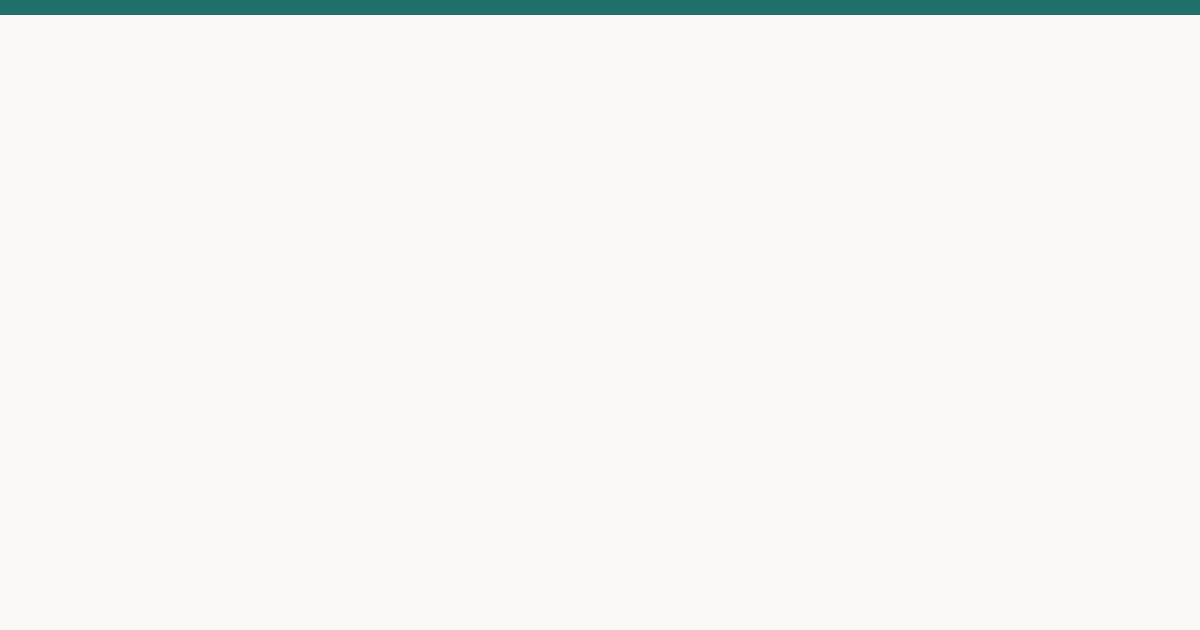
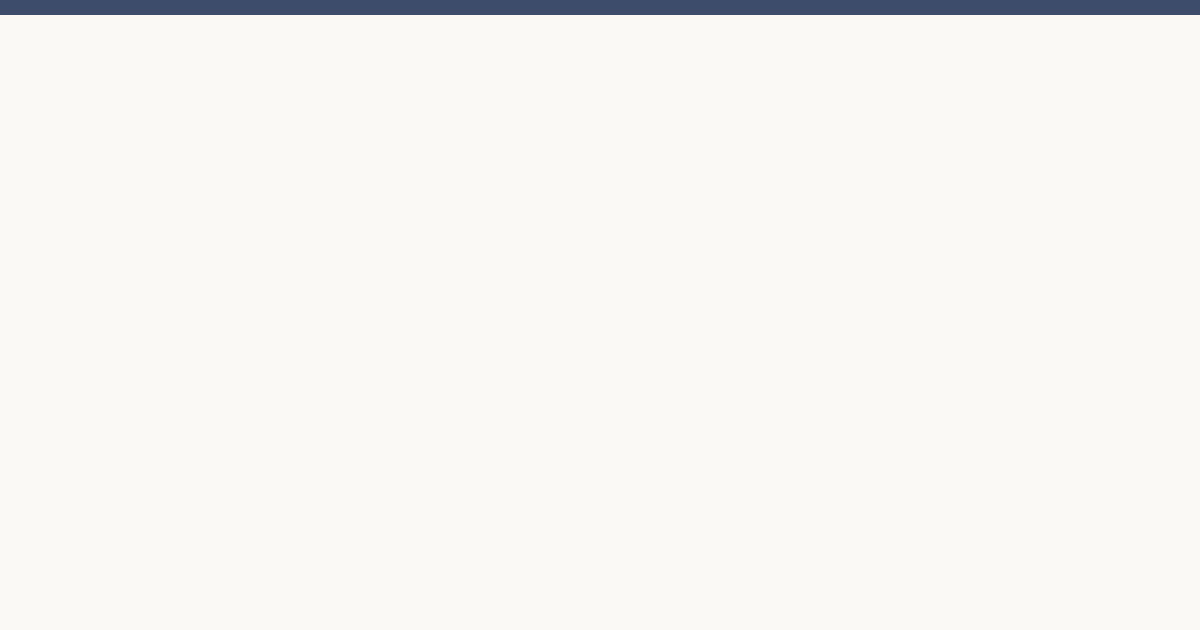
Switch brand color to muted indigo; add live booking form
- Renamed CSS variables teal/teal-dark/teal-tint -> indigo/indigo-dark/
  indigo-tint (#3E4C6B / #2A3552 / #E8EAF2), updated every usage in
  main.css and section--teal -> section--indigo across all page
  templates
- Updated assets/logo.svg, assets/favicon.svg, assets/og-image.jpg to
  the new color (all contrast ratios re-checked, still comfortably
  pass AA)
- New self-service booking form on the homepage (bookingSection() in
  home.js): name/phone/email/service/date/time/notes, with live
  client-side validation that a chosen date falls on an actual open
  day (reads config.openingHoursStructured, so it can't drift out of
  sync with what's published as opening hours)
- Submit routes to WhatsApp (wa.me, prefilled message) or email
  (mailto:), user's choice — no real booking backend yet, that's
  called out both in-page (small note under the form) and in
  README/CHECKLIST as the next integration step

Changed region(s): [[0.0, 0.0, 1.0, 0.0302]]

diff --git a/src/templates/pages/home.js b/src/templates/pages/home.js
@@ -9,6 +9,119 @@ const description =
   "מכון בדיקות שמיעה בתל אביב למבוגרים ולילדים מגיל 5 — אודיומטריה וטימפנומטריה, תוצאות ודוח מסודר. קביעת תור בוואטסאפ או בטלפון.";
 const navLabel = "בית";
 
+function bookingSection(config) {
+  const digits = String(config.whatsappNumber || "").replace(/[^0-9]/g, "");
+  // Time slots within the confirmed opening hours (hourly, last slot
+  // an hour before closing so the appointment itself fits the day).
+  const timeSlots = ["10:00", "11:00", "12:00", "13:00", "14:00", "15:00", "16:00"];
+  // English weekday names -> JS Date.getDay() indices, read from the
+  // same structured hours that feed the JSON-LD, so the live "closed
+  // day" check always matches what's actually published as open.
+  const dayIndex = { Sunday: 0, Monday: 1, Tuesday: 2, Wednesday: 3, Thursday: 4, Friday: 5, Saturday: 6 };
+  const openDays = (config.openingHoursStructured || []).flatMap((spec) => spec.days.map((d) => dayIndex[d]));
+
+  return `
+  <div class="card" style="max-width:760px;margin-inline:auto;">
+    <h3 class="mt-0">קביעת תור מהירה</h3>
+    <p style="margin-bottom:20px;">מלאו פרטים ובחרו תאריך ושעה מועדפים — הבקשה תישלח אליכם ישירות לוואטסאפ או למייל, לפי מה שנוח לכם.</p>
+    <form id="booking-form-live" data-track-form="home_booking">
+      <div class="grid grid--2">
+        <div class="form-field">
+          <label for="bk-name">שם מלא</label>
+          <input id="bk-name" name="name" type="text" required />
+        </div>
+        <div class="form-field">
+          <label for="bk-phone">טלפון</label>
+          <input id="bk-phone" name="phone" type="tel" required />
+        </div>
+      </div>
+      <div class="grid grid--2">
+        <div class="form-field">
+          <label for="bk-email">אימייל (לא חובה)</label>
+          <input id="bk-email" name="email" type="email" />
+        </div>
+        <div class="form-field">
+          <label for="bk-service">סוג הבדיקה</label>
+          <select id="bk-service" name="service">
+            <option>בדיקת שמיעה</option>
+            <option>בדיקת שמיעה לילדים</option>
+            <option>טימפנומטריה</option>
+            <option>בדיקה לוועדת זכאות ואפיון</option>
+            <option>אחר</option>
+          </select>
+        </div>
+      </div>
+      <div class="grid grid--2">
+        <div class="form-field">
+          <label for="bk-date">תאריך מועדף</label>
+          <input id="bk-date" name="date" type="date" required />
+          <span id="bk-date-warning" style="display:none;color:#a33;font-size:.85rem;">המכון סגור בתאריך שנבחר (${config.openingHoursDisplay}). אפשר לשלוח בכל זאת ונתאם ידנית.</span>
+        </div>
+        <div class="form-field">
+          <label for="bk-time">שעה מועדפת</label>
+          <select id="bk-time" name="time">
+            ${timeSlots.map((t) => `<option>${t}</option>`).join("\n")}
+          </select>
+        </div>
+      </div>
+      <div class="form-field">
+        <label for="bk-notes">הערות (לא חובה)</label>
+        <textarea id="bk-notes" name="notes"></textarea>
+      </div>
+      <div style="display:flex;gap:12px;flex-wrap:wrap;margin-top:8px;">
+        <button class="btn btn--primary" type="submit" data-channel="whatsapp" style="flex:1;min-width:200px;">${icons.whatsapp} שליחת הבקשה בוואטסאפ</button>
+        <button class="btn btn--ghost" type="submit" data-channel="email" style="flex:1;min-width:200px;">שליחת הבקשה במייל</button>
+      </div>
+      <p style="font-size:.8rem;color:var(--ink-faint);margin-top:14px;margin-bottom:0;">
+        לתשומת לב הצוות הטכני: הבקשה נשלחת כרגע ידנית (וואטסאפ/מייל) ואינה יוצרת הזמנה במערכת יומן. כשיחובר מנוע קביעת תורים אמיתי, ההגשה כאן צריכה לעבור ל-API שלו כדי שגם תישלח הודעת אישור אוטומטית ללקוח.
+      </p>
+    </form>
+  </div>
+
+  <script>
+    (function () {
+      var form = document.getElementById("booking-form-live");
+      if (!form) return;
+      var dateInput = document.getElementById("bk-date");
+      var dateWarning = document.getElementById("bk-date-warning");
+      var openDays = ${JSON.stringify(openDays)};
+      var today = new Date();
+      dateInput.min = today.toISOString().split("T")[0];
+
+      function checkDate() {
+        if (!dateInput.value) { dateWarning.style.display = "none"; return; }
+        var picked = new Date(dateInput.value + "T00:00:00");
+        var isOpen = openDays.indexOf(picked.getDay()) !== -1;
+        dateWarning.style.display = isOpen ? "none" : "block";
+      }
+      dateInput.addEventListener("change", checkDate);
+
+      form.addEventListener("submit", function (e) {
+        e.preventDefault();
+        var channel = (e.submitter && e.submitter.dataset.channel) || "whatsapp";
+        var data = new FormData(form);
+        var lines = [
+          "בקשה לקביעת תור - ${config.clinicName}",
+          "שם: " + data.get("name"),
+          "טלפון: " + data.get("phone"),
+          data.get("email") ? "אימייל: " + data.get("email") : null,
+          "סוג בדיקה: " + data.get("service"),
+          "תאריך מועדף: " + data.get("date"),
+          "שעה מועדפת: " + data.get("time"),
+          data.get("notes") ? "הערות: " + data.get("notes") : null,
+        ].filter(Boolean).join("\\n");
+
+        if (channel === "email") {
+          var subject = encodeURIComponent("בקשה לקביעת תור - " + data.get("service"));
+          window.location.href = "mailto:${config.email}?subject=" + subject + "&body=" + encodeURIComponent(lines);
+        } else {
+          window.open("https://wa.me/${digits}?text=" + encodeURIComponent(lines), "_blank", "noopener");
+        }
+      });
+    })();
+  </script>`;
+}
+
 function servicesList(config) {
   const items = [
     {
@@ -75,7 +188,7 @@ function aboutAndLocation(config) {
       <div class="hero__ctas">
         <a class="btn btn--primary" href="${waHref(config)}" target="_blank" rel="noopener" data-track="whatsapp_click" data-track-location="home_about">${icons.whatsapp} קביעת תור בוואטסאפ</a>
       </div>
-      <!-- מיקום עתידי: כאן ייכנס ווידג'ט קביעת תור עצמאית (פיצ'ר בפיתוח) -->
+      <!-- ניתן להזין תור עצמאי ישירות למטה, או ליצור קשר בוואטסאפ/טלפון -->
     </div>
     <div>
       <div class="map-frame">
@@ -220,6 +333,14 @@ function render(config) {
     </div>
   </section>
 
+  <section class="section section--alt">
+    <div class="container">
+      <p class="eyebrow">${icons.document} קביעת תור</p>
+      <h2 class="text-center" style="max-width:600px;margin-inline:auto;">קבעו תור עצמאית, ישירות באתר</h2>
+      ${bookingSection(config)}
+    </div>
+  </section>
+
   <section class="section">
     <div class="container">
       <p class="eyebrow">השירותים שלנו</p>
@@ -247,7 +368,7 @@ function render(config) {
     </div>
   </section>
 
-  <section class="section section--teal">
+  <section class="section section--indigo">
     <div class="container text-center">
       <h2>מוכנים לקבוע תור?</h2>
       <p class="lede">כתבו לנו בוואטסאפ או התקשרו — נשמח לתאם זמן שנוח לכם.</p>

diff --git a/src/styles/main.css b/src/styles/main.css
@@ -10,9 +10,9 @@
   --ink-faint: #5a625f;
   --line: #dfe3dc;
   --line-strong: #c7cec5;
-  --teal: #1f6f6b;
-  --teal-dark: #144e4b;
-  --teal-tint: #e7f0ef;
+  --indigo: #3E4C6B;
+  --indigo-dark: #2A3552;
+  --indigo-tint: #E8EAF2;
   --gold: #b98a2e;
   --gold-tint: #f6ecd8;
   --focus: #0b5cff;
@@ -100,7 +100,7 @@ p { margin: 0 0 1em; color: var(--ink-soft); max-width: 62ch; }
   align-items: center;
   gap: 8px;
   font-size: .95rem;
-  color: var(--teal-dark);
+  color: var(--indigo-dark);
   margin-bottom: .6em;
 }
 
@@ -114,9 +114,9 @@ p { margin: 0 0 1em; color: var(--ink-soft); max-width: 62ch; }
 }
 .section { padding-block: clamp(32px, 4.5vw, 64px); }
 .section--alt { background: var(--bg-alt); }
-.section--teal { background: var(--teal); color: #fff; }
-.section--teal h2, .section--teal h3 { color: #fff; }
-.section--teal p { color: #dceceb; }
+.section--indigo { background: var(--indigo); color: #fff; }
+.section--indigo h2, .section--indigo h3 { color: #fff; }
+.section--indigo p { color: #D8DCEA; }
 
 .grid { display: grid; gap: 24px; }
 .grid--2 { grid-template-columns: repeat(2, 1fr); }
@@ -149,7 +149,7 @@ p { margin: 0 0 1em; color: var(--ink-soft); max-width: 62ch; }
   gap: 20px;
 }
 .brand { display: flex; align-items: center; gap: 10px; text-decoration: none; }
-.brand__mark { display: inline-flex; width: 34px; height: 34px; flex: none; color: var(--teal); }
+.brand__mark { display: inline-flex; width: 34px; height: 34px; flex: none; color: var(--indigo); }
 .brand__mark svg { width: 100%; height: 100%; }
 .brand__name { font-family: var(--font-display); font-size: 1.15rem; font-weight: 600; color: var(--ink); }
 
@@ -162,7 +162,7 @@ p { margin: 0 0 1em; color: var(--ink-soft); max-width: 62ch; }
   border-bottom: 2px solid transparent;
 }
 .site-nav a:hover, .site-nav a[aria-current="page"] {
-  color: var(--teal-dark);
+  color: var(--indigo-dark);
   border-bottom-color: var(--gold);
 }
 .header-cta { display: flex; gap: 10px; }
@@ -210,8 +210,8 @@ p { margin: 0 0 1em; color: var(--ink-soft); max-width: 62ch; }
   cursor: pointer;
   white-space: nowrap;
 }
-.btn--primary { background: var(--teal); color: #fff; }
-.btn--primary:hover { background: var(--teal-dark); }
+.btn--primary { background: var(--indigo); color: #fff; }
+.btn--primary:hover { background: var(--indigo-dark); }
 .btn--gold { background: var(--gold); color: #241a04; }
 .btn--gold:hover { filter: brightness(0.95); }
 .btn--ghost { background: transparent; color: var(--ink); border-color: var(--line-strong); }
@@ -257,9 +257,9 @@ p { margin: 0 0 1em; color: var(--ink-soft); max-width: 62ch; }
   font-size: .95rem;
   color: var(--ink-soft);
 }
-.trust-item svg { width: 20px; height: 20px; color: var(--teal); flex: none; }
+.trust-item svg { width: 20px; height: 20px; color: var(--indigo); flex: none; }
 
-.hero__wave { color: var(--teal); width: 100%; height: auto; max-width: 420px; }
+.hero__wave { color: var(--indigo); width: 100%; height: auto; max-width: 420px; }
 
 /* ==========================================================
    Cards
@@ -271,11 +271,11 @@ p { margin: 0 0 1em; color: var(--ink-soft); max-width: 62ch; }
   padding: 28px;
 }
 .service-card { display: flex; flex-direction: column; gap: 10px; }
-.service-card__icon { display: inline-flex; width: 40px; height: 40px; color: var(--teal); font-size: 40px; }
+.service-card__icon { display: inline-flex; width: 40px; height: 40px; color: var(--indigo); font-size: 40px; }
 .service-card a.service-card__link {
   margin-top: auto;
   text-decoration: none;
-  color: var(--teal-dark);
+  color: var(--indigo-dark);
   font-weight: 600;
   padding-top: 10px;
 }
@@ -290,8 +290,8 @@ p { margin: 0 0 1em; color: var(--ink-soft); max-width: 62ch; }
   flex: none;
   width: 38px; height: 38px;
   border-radius: 50%;
-  background: var(--teal-tint);
-  color: var(--teal-dark);
+  background: var(--indigo-tint);
+  color: var(--indigo-dark);
   display: flex; align-items: center; justify-content: center;
   font-family: var(--font-display);
   font-weight: 600;
@@ -302,9 +302,9 @@ p { margin: 0 0 1em; color: var(--ink-soft); max-width: 62ch; }
   width: 100%;
   aspect-ratio: 4 / 3;
   border-radius: var(--radius-m);
-  background: var(--teal-tint);
+  background: var(--indigo-tint);
   display: flex; align-items: center; justify-content: center;
-  color: var(--teal);
+  color: var(--indigo);
   overflow: hidden;
 }
 .person-card__photo img { width: 100%; height: 100%; object-fit: cover; }
@@ -328,7 +328,7 @@ p { margin: 0 0 1em; color: var(--ink-soft); max-width: 62ch; }
   gap: 16px;
 }
 .price-row:last-child { border-bottom: none; }
-.price-row__amount { font-family: var(--font-display); font-size: 1.4rem; color: var(--teal-dark); white-space: nowrap; }
+.price-row__amount { font-family: var(--font-display); font-size: 1.4rem; color: var(--indigo-dark); white-space: nowrap; }
 .price-note {
   background: var(--bg-alt);
   border: 1px dashed var(--line-strong);
@@ -358,7 +358,7 @@ p { margin: 0 0 1em; color: var(--ink-soft); max-width: 62ch; }
   content: "+";
   font-family: var(--font-display);
   font-size: 1.4rem;
-  color: var(--teal);
+  color: var(--indigo);
   flex: none;
 }
 .faq-item[open] summary::after { content: "–"; }
@@ -373,7 +373,7 @@ p { margin: 0 0 1em; color: var(--ink-soft); max-width: 62ch; }
   padding-block: 16px;
 }
 .breadcrumbs a { color: var(--ink-faint); text-decoration: none; }
-.breadcrumbs a:hover { color: var(--teal-dark); }
+.breadcrumbs a:hover { color: var(--indigo-dark); }
 .breadcrumbs .sep { margin-inline: 6px; }
 
 /* ==========================================================
@@ -392,7 +392,7 @@ p { margin: 0 0 1em; color: var(--ink-soft); max-width: 62ch; }
 .map-frame iframe { width: 100%; height: 100%; border: 0; }
 .info-list { list-style: none; padding: 0; margin: 0; display: flex; flex-direction: column; gap: 14px; }
 .info-list li { display: flex; gap: 12px; }
-.info-list svg { width: 22px; height: 22px; color: var(--teal); flex: none; margin-top: 2px; }
+.info-list svg { width: 22px; height: 22px; color: var(--indigo); flex: none; margin-top: 2px; }
 
 .form-field { display: flex; flex-direction: column; gap: 6px; margin-bottom: 16px; }
 .form-field label { font-size: .92rem; font-weight: 600; }

diff --git a/src/templates/pages/childrenHearingTest.js b/src/templates/pages/childrenHearingTest.js
@@ -58,7 +58,7 @@ function render(config) {
     </div>
   </section>
 
-  <section class="section section--teal">
+  <section class="section section--indigo">
     <div class="container text-center">
       <h2>לקביעת תור לבדיקת שמיעה לילד/ה</h2>
       <div class="hero__ctas" style="justify-content:center;">

diff --git a/src/templates/pages/team.js b/src/templates/pages/team.js
@@ -49,7 +49,7 @@ function render(config) {
     </div>
   </section>
 
-  <section class="section section--teal">
+  <section class="section section--indigo">
     <div class="container text-center">
       <h2>רוצים לקבוע תור עם הצוות שלנו?</h2>
       <div class="hero__ctas" style="justify-content:center;">

diff --git a/src/templates/pages/specialEducation.js b/src/templates/pages/specialEducation.js
@@ -51,7 +51,7 @@ function render(config) {
     </div>
   </section>
 
-  <section class="section section--teal">
+  <section class="section section--indigo">
     <div class="container text-center">
       <h2>לקביעת תור עם דוח לוועדה</h2>
       <div class="hero__ctas" style="justify-content:center;">

diff --git a/src/templates/pages/tympanometry.js b/src/templates/pages/tympanometry.js
@@ -47,7 +47,7 @@ function render(config) {
     </div>
   </section>
 
-  <section class="section section--teal">
+  <section class="section section--indigo">
     <div class="container text-center">
       <h2>לקביעת תור לטימפנומטריה</h2>
       <div class="hero__ctas" style="justify-content:center;">

diff --git a/src/templates/pages/hearingTest.js b/src/templates/pages/hearingTest.js
@@ -59,7 +59,7 @@ function render(config) {
     </div>
   </section>
 
-  <section class="section section--teal">
+  <section class="section section--indigo">
     <div class="container text-center">
       <h2>לקביעת תור לבדיקת שמיעה</h2>
       <div class="hero__ctas" style="justify-content:center;">

diff --git a/README.md b/README.md
@@ -58,7 +58,15 @@ CHECKLIST.md              ← רשימת כל הפרטים החסרים שצרי
 
 עמוד הבית כולל בלוק "מי אנחנו" עם מפת גוגל (`config.geo`), שעות פתיחה (`config.openingHoursDisplay`), וכפתור "נווט לכאן בוויז" שמקשר ישירות לאפליקציית Waze (`wazeHref()` ב-`src/templates/utils.js`, מבוסס גם הוא על `config.geo`). אותה לוגיקת מפה משותפת עם עמוד `/contact/` דרך `mapEmbedQuery()` — עדכון `config.geo` או `config.address` משפיע על שני העמודים ביחד.
 
-**הכנה לפיצ'ר עתידי:** בתוך `src/templates/pages/home.js`, בפונקציה `aboutAndLocation`, יש הערת קוד `<!-- מיקום עתידי: ... -->` המסמנת איפה ייכנס בעתיד ווידג'ט קביעת תור עצמאית. כשהפיצ'ר הזה יהיה מוכן, זה המקום הטבעי להוסיף אותו.
+**עדכון:** ווידג'ט קביעת התור העצמאית שתוכנן כאן בעבר כבר מומש בפועל — ראו הסעיף הבא.
+
+## רובריקת קביעת תור בעמוד הבית
+
+`bookingSection()` ב-`src/templates/pages/home.js` היא רובריקת קביעת תור עצמאית: שם, טלפון, אימייל (לא חובה), סוג בדיקה, תאריך, שעה, הערות. השדה "תאריך" בודק בזמן אמת (JS) מול `config.openingHoursStructured` אם היום הנבחר הוא יום פעילות, ומציג אזהרה עדינה אם לא — הבדיקה תמיד תואמת את מה שמפורסם כשעות הפעילות, כי היא קוראת מאותו שדה קונפיג שמזין גם את ה-JSON-LD.
+
+**המצב הנוכחי — ידני בלבד.** ללחצן "שליחת הבקשה בוואטסאפ" יש `wa.me` עם כל פרטי הטופס מפורמטים כהודעה, וללחצן "שליחת הבקשה במייל" יש `mailto:` מקביל. אין כרגע חיבור ליומן תורים אמיתי, ואין שליחת הודעת אישור אוטומטית ללקוח (המכון צריך לענות ידנית). זה בכוונה — כדי שהפיצ'ר יהיה שימושי כבר עכשיו, בלי לחכות לאינטגרציה.
+
+**כשמחברים מנוע קביעת תורים אמיתי:** יש להחליף את ה-`submit` handler בתוך `bookingSection()` (בתחתית הפונקציה) בקריאת API לאותו מנוע, כדי שגם תישלח הודעת אישור אוטומטית בוואטסאפ/מייל ללקוח כמו שתוכנן.
 
 ## מה עוד חסר לפני עלייה לאוויר
 

diff --git a/CHECKLIST.md b/CHECKLIST.md
@@ -47,6 +47,6 @@
 
 - [ ] `analytics.ga4MeasurementId` — מזהה Google Analytics 4
 - [ ] `analytics.googleAdsConversionId` + `conversionLabels` (וואטסאפ/טלפון/טופס/ניווט) — לצורך מדידת המרות ב-Google Ads
-- [ ] חיבור אמיתי לטופס יצירת הקשר בעמוד `/contact/` (כרגע `mailto:` בלבד — ראו README)
+- [ ] חיבור אמיתי לטופס יצירת הקשר בעמוד `/contact/` **וגם** לרובריקת קביעת התור בעמוד הבית (כרגע שניהם שולחים ידנית — וואטסאפ/מייל בלבד, ללא יומן תורים אמיתי ובלי הודעת אישור אוטומטית ללקוח). ראו README — כשיחובר מנוע קביעת תורים, שני הטפסים צריכים לעבור ל-API שלו.
 - [ ] רישום ואימות הדומיין הסופי ב-Google Search Console ושליחת `sitemap.xml`
 - [ ] אימות/יצירת פרופיל עסק בגוגל (Google Business Profile) לצורך נראות במפות ובביקורות
